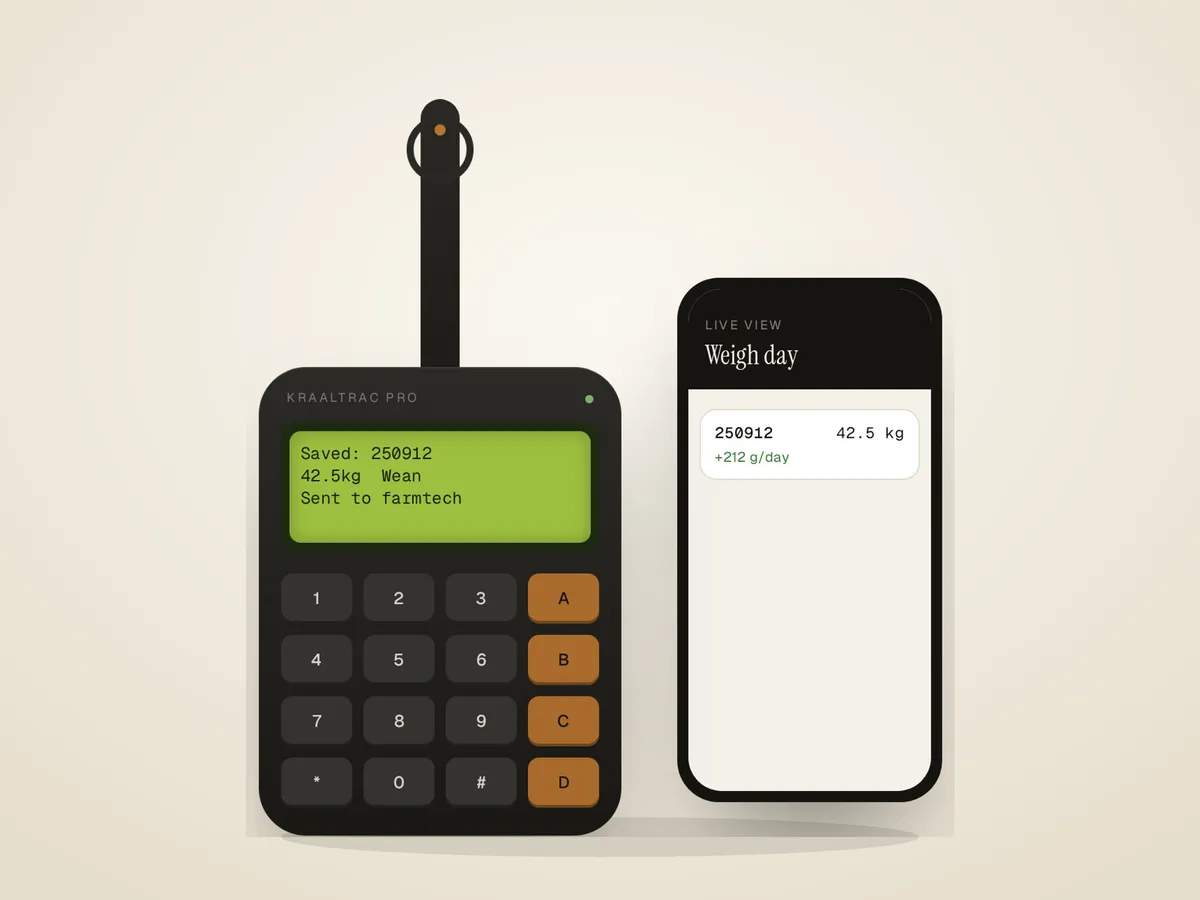
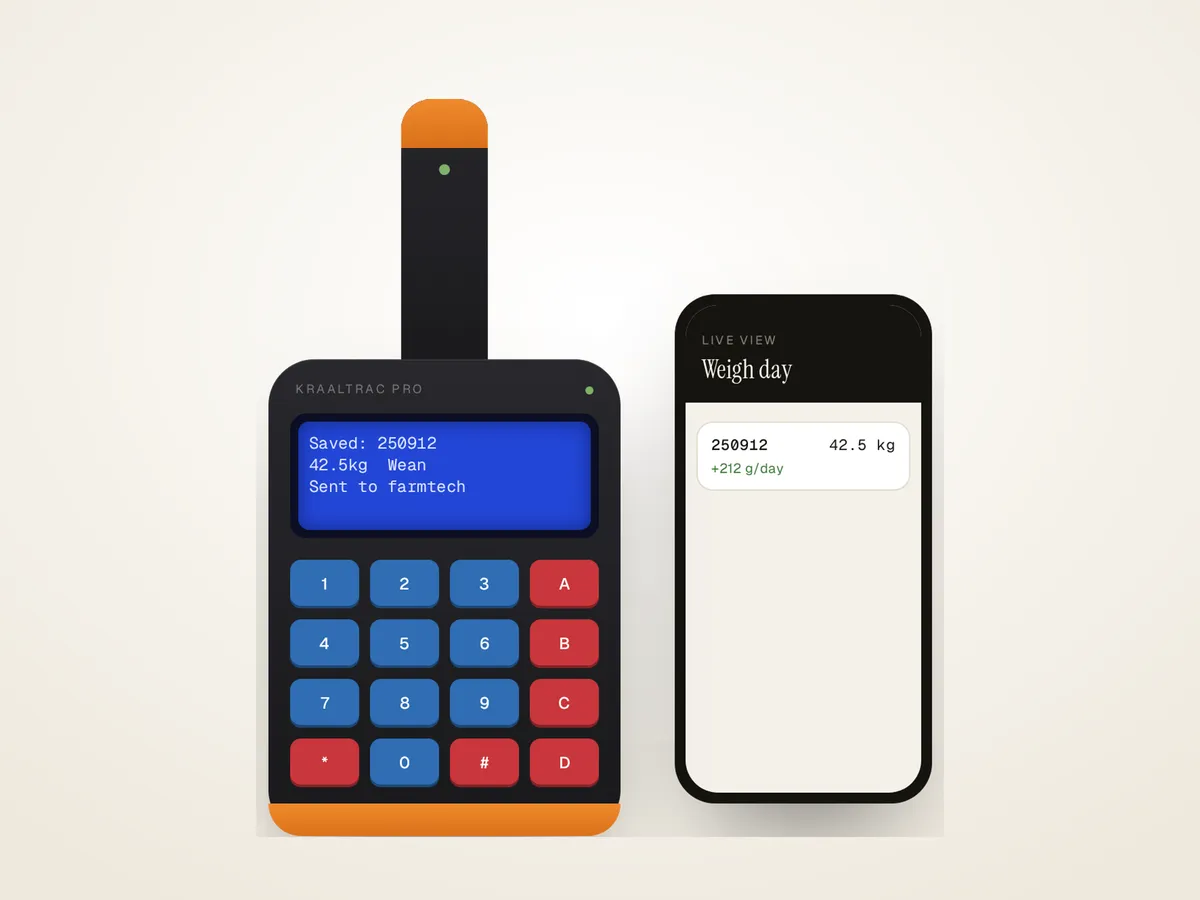
Real product photos, trustworthy listings, "programmed for your farm", ear tags R722
- KraalTrac Pro: real photo (+ how-it-works image), full specs (4×4 keypad, 20×4 LCD, 300 offline records,
  Wi-Fi + USB, power bank, free browser updates, 6-month warranty, made in SA), rewritten overview/features
- New "How it works" (scan → weigh → saved offline → synced) and "Programmed the way you farm" sections
- EID button ear tags: real photos on a clean backdrop, R722 / 50, sheep, cattle & pigs, full specs, "How to tag"
- Store KraalTrac Pro section shows the photo with a "See it work" demo toggle; device drawing recoloured
  to match the real scanner (blue screen, blue/red keys, orange caps)
- Product bullets fit the product type; admin can't publish an in-stock listing without a price

Claude-Session: https://claude.ai/code/session_015YhYt4zk7wMTi1MeeFSRRT

Changed region(s): [[0.185, 0.0933, 0.8017, 0.9644]]

diff --git a/resources/views/site/product.blade.php b/resources/views/site/product.blade.php
@@ -58,9 +58,11 @@
                 <a href="{{ route('site.contact') }}" class="btn-line">Ask us something</a>
             </div>
             <ul class="mt-8 space-y-2 text-sm text-stone">
-                <li class="flex gap-3"><span class="mt-2 w-1.5 h-1.5 rounded-full bg-ochre shrink-0"></span>Herd Manager included, no monthly subscription</li>
-                <li class="flex gap-3"><span class="mt-2 w-1.5 h-1.5 rounded-full bg-ochre shrink-0"></span>7 days to change your mind · 6-month warranty</li>
-                <li class="flex gap-3"><span class="mt-2 w-1.5 h-1.5 rounded-full bg-ochre shrink-0"></span>Help from the people who built it</li>
+                @foreach ($listing->module
+                    ? ['Herd Manager included, no monthly subscription', 'Programmed and tested in South Africa before it ships', '7 days to change your mind · 6-month warranty', 'Help from the people who built it']
+                    : ['Reads on the KraalTrac Pro and shows up in Herd Manager', 'Couriered with your order, or collect', '7 days to change your mind (unused packs)'] as $t)
+                    <li class="flex gap-3"><span class="mt-2 w-1.5 h-1.5 rounded-full bg-ochre shrink-0"></span>{{ $t }}</li>
+                @endforeach
             </ul>
         </div>
     </div>
@@ -73,6 +75,66 @@
         <div class="lg:col-span-8 space-y-6 text-[clamp(1.25rem,2.2vw,1.6rem)] leading-[1.5] text-char">
             @foreach (preg_split('/\R{2,}/', $listing->overview) as $para)<p>{{ $para }}</p>@endforeach
         </div>
+    </div>
+</section>
+@endif
+
+{{-- How it works / programmed your way (scanner) and how to tag (tags) --}}
+@if ($listing->module === 'rfid')
+<section class="bg-char text-sand">
+    <div class="wrap py-20 sm:py-28">
+        <h2 class="h-display text-[clamp(2.6rem,5vw,4.2rem)]">How it works</h2>
+        <ol class="mt-12 grid md:grid-cols-2 xl:grid-cols-4 gap-5">
+            @foreach ([
+                ['Scan', 'Hold the antenna end to the ear tag. The animal\'s number comes up on the screen. New animal? It offers the next birthday number.'],
+                ['Weigh', 'Press A–D for birth, wean, post-wean or mature weight, type the weight off your scale and press #.'],
+                ['Saved, even offline', 'The record is stored on the scanner straight away (up to 300), so a dead zone in the kraal doesn\'t matter.'],
+                ['Synced to Herd Manager', 'On Wi-Fi or your phone\'s hotspot it sends everything to farmtech.site. Gains, alerts and auction books update by themselves.'],
+            ] as $i => [$t, $d])
+                <li class="rounded-[24px] bg-white/5 border border-white/10 p-6">
+                    <span class="font-headline text-4xl text-ochre-light">{{ $i + 1 }}</span>
+                    <h3 class="mt-4 text-xl font-medium">{{ $t }}</h3>
+                    <p class="mt-2 text-sand/70 leading-relaxed">{{ $d }}</p>
+                </li>
+            @endforeach
+        </ol>
+    </div>
+</section>
+
+<section class="wrap py-20 sm:py-28 grid lg:grid-cols-2 gap-12 items-center">
+    <div>
+        <h2 class="h-display text-[clamp(2.6rem,5vw,4.2rem)]">Programmed the way you farm.</h2>
+        <p class="mt-6 text-lg text-stone leading-relaxed max-w-lg">Every KraalTrac Pro is set up for its farm before it leaves us. When you order, we phone you and ask how you work. Then we program it to match.</p>
+        <p class="mt-4 text-stone max-w-lg">Want a change after a season? Tell us, and we send the update. You install it from your browser in a minute, free.</p>
+        <a href="{{ route('site.contact') }}" class="btn-line mt-8">Ask us what's possible</a>
+    </div>
+    <div class="grid sm:grid-cols-2 gap-3">
+        @foreach ([
+            ['Your ID system', 'Birthday numbers (250912), stud numbers, or your own format.'],
+            ['Your questions', 'Only the weigh types and fields you use: sex, sire, dam, or add FAMACHA, condition score, camp.'],
+            ['Your language', 'English or Afrikaans screens.'],
+            ['Your Wi-Fi', 'Farm networks and your phone\'s hotspot loaded before delivery.'],
+            ['Your PIN', 'Set your own clear-memory PIN.'],
+            ['Your flock', 'Your existing tag list loaded, so it knows your animals on day one.'],
+        ] as [$t, $d])
+            <div class="rounded-2xl bg-white border border-hairline p-5"><div class="font-medium">{{ $t }}</div><p class="mt-1 text-sm text-stone">{{ $d }}</p></div>
+        @endforeach
+    </div>
+</section>
+@elseif ($listing->category === 'Tags')
+<section class="bg-char text-sand">
+    <div class="wrap py-20 sm:py-24">
+        <h2 class="h-display text-[clamp(2.6rem,5vw,4.2rem)]">How to tag</h2>
+        <ol class="mt-12 grid md:grid-cols-3 gap-5">
+            @foreach ([
+                ['Load the applicator', 'Male pin on the spike, female button in the jaw of a standard button-tag applicator.'],
+                ['Tag the ear', 'Between the two main ribs of the ear, about a third of the way out from the head. One firm squeeze.'],
+                ['Scan it once', 'Scan with the KraalTrac Pro and give the animal its number. From then on a scan brings up its full record.'],
+            ] as $i => [$t, $d])
+                <li class="rounded-[24px] bg-white/5 border border-white/10 p-6"><span class="font-headline text-4xl text-ochre-light">{{ $i + 1 }}</span><h3 class="mt-4 text-xl font-medium">{{ $t }}</h3><p class="mt-2 text-sand/70 leading-relaxed">{{ $d }}</p></li>
+            @endforeach
+        </ol>
+        <p class="mt-8 text-sm text-sand/50">Clean the applicator between animals. Tag in cool parts of the day and avoid fly season where you can.</p>
     </div>
 </section>
 @endif

diff --git a/resources/views/site/_device.blade.php b/resources/views/site/_device.blade.php
@@ -30,24 +30,25 @@
         {{-- Handheld --}}
         <div class="relative shrink-0 w-[230px] sm:w-[260px]">
             {{-- antenna wand --}}
-            <div class="mx-auto w-7 h-40 sm:h-48 rounded-t-full bg-gradient-to-b from-[#2a2925] to-[#1d1c18] shadow-inner relative">
-                <div class="absolute top-3 left-1/2 -translate-x-1/2 w-12 h-12 rounded-full border-[5px] border-[#2a2925] bg-transparent"></div>
-                <span class="absolute top-[18px] left-1/2 -translate-x-1/2 w-2 h-2 rounded-full bg-ochre animate-pulse"></span>
+            <div class="mx-auto w-16 h-40 sm:h-48 rounded-t-[22px] bg-gradient-to-b from-[#26262a] to-[#1b1b1e] relative overflow-hidden">
+                <div class="absolute inset-x-0 top-0 h-9 bg-gradient-to-b from-[#F08A2C] to-[#D9701A]"></div>
+                <span class="absolute top-12 left-1/2 -translate-x-1/2 w-2 h-2 rounded-full bg-[#7FB069] animate-pulse"></span>
             </div>
-            <div class="rounded-[34px] bg-gradient-to-b from-[#2b2a26] to-[#191814] p-4 pb-5 shadow-[0_40px_80px_-30px_rgba(0,0,0,.6),inset_0_1px_0_rgba(255,255,255,.08)]">
+            <div class="relative rounded-[34px] bg-gradient-to-b from-[#28282c] to-[#18181b] p-4 pb-9 shadow-[0_40px_80px_-30px_rgba(0,0,0,.6),inset_0_1px_0_rgba(255,255,255,.08)]">
                 <div class="flex justify-between items-center px-1 mb-2.5 text-[9px] tracking-[0.2em] uppercase text-sand/40"><span>KraalTrac Pro</span><span class="w-1.5 h-1.5 rounded-full bg-[#7FB069]"></span></div>
                 {{-- 20×4 LCD --}}
-                <div class="rounded-xl bg-[#1c2a10] p-1.5">
-                    <div class="rounded-lg bg-[#9DBF3F] px-2 py-2 shadow-[inset_0_0_12px_rgba(0,0,0,.25)]">
+                <div class="rounded-xl bg-[#0b0f24] p-1.5">
+                    <div class="rounded-lg bg-[#2346d6] px-2 py-2 shadow-[inset_0_0_14px_rgba(0,0,30,.45)]">
                         <template x-for="(line, n) in screens[i]" :key="n">
-                            <div class="font-num text-[10.5px] sm:text-[12px] leading-[1.35] text-[#16220a] whitespace-pre tracking-[0.02em]" x-text="pad(line)"></div>
+                            <div class="font-num text-[10.5px] sm:text-[12px] leading-[1.35] text-[#dfe6ff] whitespace-pre tracking-[0.02em]" x-text="pad(line)"></div>
                         </template>
                     </div>
                 </div>
+                <div class="absolute inset-x-0 bottom-0 h-6 rounded-b-[34px] bg-gradient-to-b from-[#F08A2C] to-[#D9701A]"></div>
                 {{-- 4×4 keypad --}}
                 <div class="mt-4 grid grid-cols-4 gap-2">
                     @foreach (['1', '2', '3', 'A', '4', '5', '6', 'B', '7', '8', '9', 'C', '*', '0', '#', 'D'] as $k)
-                        <span class="h-8 sm:h-9 rounded-lg grid place-items-center text-[12px] font-medium {{ ctype_alpha($k) ? 'bg-ochre/90 text-char' : 'bg-[#34332e] text-sand/85' }} shadow-[inset_0_-2px_0_rgba(0,0,0,.35)]">{{ $k }}</span>
+                        <span class="h-8 sm:h-9 rounded-lg grid place-items-center text-[12px] font-medium text-white {{ ctype_digit($k) ? 'bg-[#2f6db3]' : 'bg-[#c9363b]' }} shadow-[inset_0_-2px_0_rgba(0,0,0,.35)]">{{ $k }}</span>
                     @endforeach
                 </div>
             </div>

diff --git a/resources/views/site/store.blade.php b/resources/views/site/store.blade.php
@@ -77,9 +77,16 @@
 {{-- The device --}}
 <section id="pro" class="scroll-mt-20 overflow-hidden">
     <div class="wrap py-24 sm:py-32 grid lg:grid-cols-2 gap-16 lg:gap-20 items-center">
-        <div class="order-2 lg:order-1 rounded-[36px] bg-gradient-to-b from-sand-deep to-sand border border-hairline pt-12 pb-8 px-4 sm:px-8">
-            @include('site._device')
-            <p class="mt-6 text-center text-[13px] text-stone">The screens above are the real KraalTrac Pro screens, one weighing after another.</p>
+        <div class="order-2 lg:order-1" x-data="{ view: 'photo' }">
+            <div class="rounded-[36px] bg-gradient-to-b from-white to-sand-deep border border-hairline overflow-hidden min-h-[420px] flex items-center justify-center">
+                <img x-show="view === 'photo'" src="{{ asset('storage/listings/kraaltrac-pro-photo.webp') }}" alt="The KraalTrac Pro handheld EID reader with its 4×4 keypad and screen" class="w-full h-auto">
+                <div x-show="view === 'demo'" x-cloak class="w-full pt-12 pb-8 px-4 sm:px-8">@include('site._device')</div>
+            </div>
+            <div class="mt-4 flex justify-center gap-2">
+                <button type="button" @click="view = 'photo'" class="rounded-full px-4 h-10 text-sm border" :class="view === 'photo' ? 'bg-char text-sand border-char' : 'bg-white border-hairline'">The scanner</button>
+                <button type="button" @click="view = 'demo'" class="rounded-full px-4 h-10 text-sm border" :class="view === 'demo' ? 'bg-char text-sand border-char' : 'bg-white border-hairline'">See it work</button>
+            </div>
+            <p x-show="view === 'demo'" x-cloak class="mt-3 text-center text-[13px] text-stone">The real KraalTrac Pro screens, one weighing after another, landing on your phone.</p>
         </div>
         <div class="order-1 lg:order-2">
             <h2 class="h-display text-[clamp(3rem,6vw,5.2rem)]">KraalTrac Pro</h2>
@@ -95,7 +102,8 @@
                     ['Reads the tag for you', 'Hold the wand to the ear. The 134.2 kHz reader picks up standard FDX-B tags, so nobody types 15-digit numbers with cold fingers.'],
                     ['Keeps going without signal', 'Up to 300 records stay on the device. It sends them by itself when it finds Wi-Fi, or through your phone\'s hotspot.'],
                     ['Birth, wean, post-wean, mature', 'Weight type, sex, sire and dam straight from the keypad. New lambs get a birthday number like 250912.'],
-                    ['Made for the crush', 'PETG shell with 3.5 mm walls and internal ribs. Survives dust, drops and the odd kick.'],
+                    ['Programmed for your farm', 'We set it up the way you work before it ships: your ID system, the questions it asks, extra fields like FAMACHA or camp, your Wi-Fi. Changes later are free.'],
+                    ['Made for the crush', 'Tough housing with orange impact caps and a sealed keypad. Survives dust, drops and the odd kick.'],
                 ] as [$t, $d])
                     <div class="py-5 grid sm:grid-cols-[13rem_1fr] gap-1 sm:gap-6">
                         <dt class="font-medium">{{ $t }}</dt>

diff --git a/app/Http/Controllers/Admin/ListingController.php b/app/Http/Controllers/Admin/ListingController.php
@@ -42,6 +42,9 @@ class ListingController extends Controller
 
     public function toggle(StoreListing $listing)
     {
+        if (! $listing->is_published && $listing->price_cents === null && in_array($listing->stock_status, ['in_stock', 'low_stock'], true)) {
+            return back()->withErrors(['price' => "Add a price to {$listing->name} first, or mark it Coming soon so people can reserve."]);
+        }
         $listing->update(['is_published' => ! $listing->is_published]);
 
         return back()->with('status', $listing->is_published ? "{$listing->name} is live on the store." : "{$listing->name} is hidden from the store.");
